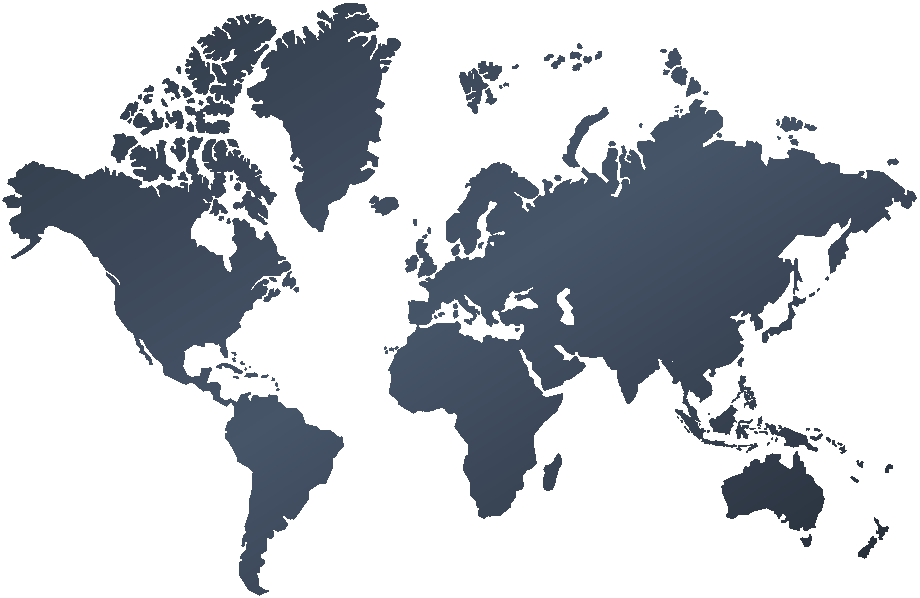
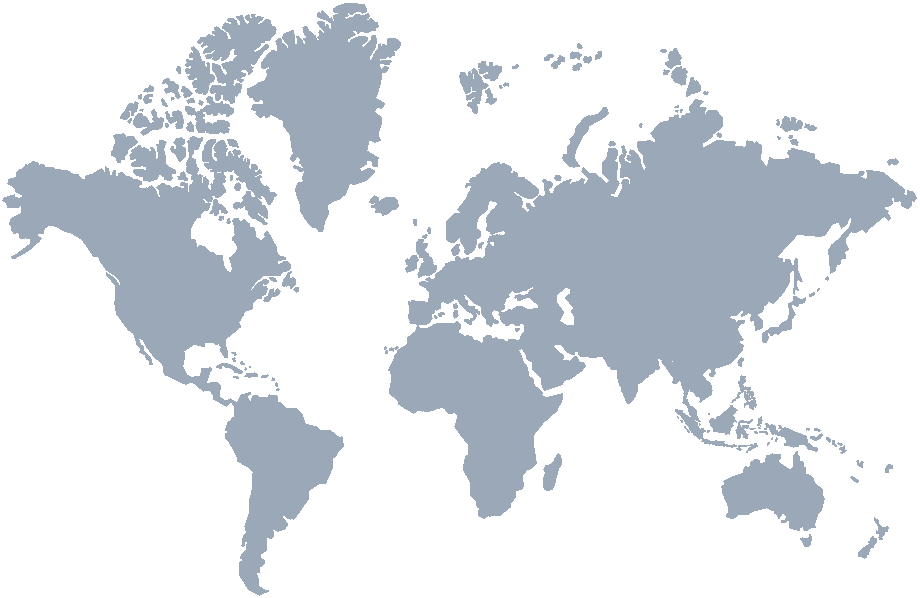
style(map): switch aggressive red world map to elegant neutral slate in light theme and sleek charcoal in dark theme

diff --git a/styles.css b/styles.css
@@ -4179,18 +4179,51 @@ body.dark-theme .why-card-content .why-card-desc {
   height: auto;
   line-height: 0;
 }
-.tech-glow-circle,
+.tech-glow-circle {
+  position: absolute;
+  top: 48%;
+  left: 50%;
+  transform: translate(-50%, -50%);
+  width: 250px;
+  height: 250px;
+  border-radius: 50%;
+  background: radial-gradient(
+    circle,
+    rgba(253, 242, 242, 0.95) 0%,
+    rgba(254, 226, 226, 0.6) 50%,
+    rgba(253, 242, 242, 0) 72%
+  );
+  z-index: 1;
+}
 .tech-radar-ring {
-  display: none !important;
+  position: absolute;
+  top: 48%;
+  left: 50%;
+  transform: translate(-50%, -50%) rotate(0deg);
+  width: 230px;
+  height: 230px;
+  border-radius: 50%;
+  border: 1.5px dashed rgba(215, 28, 27, 0.2);
+  z-index: 2;
+  animation: rotateRadarRing 30s linear infinite;
+}
+@keyframes rotateRadarRing {
+  from {
+    transform: translate(-50%, -50%) rotate(0deg);
+  }
+  to {
+    transform: translate(-50%, -50%) rotate(360deg);
+  }
 }
 .tech-showcase-img {
-  height: 480px;
+  height: 420px;
+  max-width: 310px;
   width: auto;
   object-fit: contain;
   object-position: bottom center;
   position: relative;
   z-index: 2;
-  filter: drop-shadow(0 14px 28px rgba(0, 0, 0, 0.3));
+  filter: drop-shadow(0 14px 28px rgba(25, 32, 35, 0.18));
   flex-shrink: 0;
   display: block;
   vertical-align: bottom;
@@ -8297,7 +8330,7 @@ body.dark-theme .trust-item svg {
     justify-content: center;
   }
   :root {
-    --text-h2: clamp(1.45rem, 1.15rem + 1.6vw, 1.95rem);
+    --text-h2: clamp(1.48rem, 1.15rem + 1.8vw, 2.15rem);
   } /* Hero Section */
   .hero-section {
     gap: 22px;
@@ -8864,7 +8897,7 @@ body.dark-theme .trust-item svg {
     justify-content: center;
   }
   :root {
-    --text-h2: clamp(1.35rem, 1rem + 1.5vw, 1.7rem);
+    --text-h2: clamp(1.35rem, 1.05rem + 1.5vw, 1.75rem);
   }
   .hero-headline {
     font-size: clamp(2rem, 1.125rem + 4vw, 2.45rem);
@@ -9075,12 +9108,12 @@ body.dark-theme .trust-item svg {
   }
 } /* --- Compact Mobile Viewports (360px - iPhone SE, Galaxy A) --- */
 @media (max-width: 360px) {
-  :root {
-    --text-h2: clamp(1.22rem, 5.5vw, 1.45rem);
-  }
   .site-canvas {
     padding: 12px 8px 18px 8px;
     border-radius: 0 !important;
+  }
+  :root {
+    --text-h2: clamp(1.2rem, 0.95rem + 1.2vw, 1.45rem);
   }
   .hero-headline {
     font-size: clamp(1.85rem, 1.125rem + 4vw, 2.15rem);
@@ -9257,7 +9290,7 @@ body.dark-theme .trust-item svg {
     padding: 4px;
   }
   :root {
-    --text-h2: clamp(1.1rem, 5vw, 1.25rem);
+    --text-h2: clamp(1.05rem, 0.9rem + 1vw, 1.25rem);
   }
   .hero-headline {
     font-size: 1.5rem;
@@ -10193,9 +10226,16 @@ body.dark-theme .process-step-item:hover .step-num {
   box-shadow: 0 2px 8px rgba(0, 0, 0, 0.6);
   transform: scale(1.08);
 }
-body.dark-theme .tech-glow-circle,
+body.dark-theme .tech-glow-circle {
+  background: radial-gradient(
+    circle,
+    rgba(215, 28, 27, 0.25) 0%,
+    rgba(224, 42, 36, 0.1) 50%,
+    transparent 72%
+  );
+}
 body.dark-theme .tech-radar-ring {
-  display: none !important;
+  border-color: rgba(224, 42, 36, 0.3);
 }
 body.dark-theme .tech-floating-status {
   background: var(--btn-gradient-primary);
@@ -10845,8 +10885,8 @@ body.dark-theme .status-icon.icon-clock {
   color: #ff5a52;
 }
 body.dark-theme .areas-map-img {
-  content: url("assets/world-map-dark.png");
-  opacity: 0.95;
+  content: url("assets/world-map-dark.png?v=2.0");
+  opacity: 0.92;
   filter: none;
 }
 body.dark-theme .hub-dispatch-pill {
@@ -15763,14 +15803,17 @@ body.dark-theme .hero-flank-card {
   }
   .hero-center-headline {
     font-size: clamp(2.05rem, 1.125rem + 4vw, 2.55rem);
-    line-height: 1.2;
+    line-height: 1.18;
     letter-spacing: -0.02em;
     word-break: break-word;
     overflow-wrap: break-word;
     max-width: 100%;
   }
   .center-hl-line {
-    display: inline;
+    white-space: normal !important;
+    overflow-wrap: break-word;
+    word-break: normal;
+    display: block;
   }
   .hero-center-description {
     font-size: 14px;
@@ -15878,6 +15921,7 @@ body.dark-theme .hero-flank-card {
   }
   .hero-center-headline {
     font-size: clamp(2rem, 1.125rem + 4vw, 2.45rem);
+    line-height: 1.2;
   }
 }
 
@@ -15891,12 +15935,16 @@ body.dark-theme .hero-flank-card {
   }
   .hero-center-headline {
     font-size: clamp(1.85rem, 1.125rem + 4vw, 2.15rem);
+    line-height: 1.2;
   }
 }
 
 @media (max-width: 300px) {
   .hero-center-headline {
     font-size: clamp(1.5rem, 5.5vw, 1.75rem);
+    line-height: 1.2;
+    word-break: break-word;
+    overflow-wrap: break-word;
   }
 } 
 
@@ -21382,7 +21430,7 @@ body.dark-theme .areas-dispatch-live .status-pulse-dot {
     border-radius: 20px;
   }
   .article-hero-split-row .article-post-title {
-    font-size: clamp(1.85rem, 5.5vw, 2.35rem);
+    font-size: clamp(1.4rem, 5.5vw, 1.85rem);
     margin-bottom: 12px;
   }
   .article-hero-split-row .article-post-lead {

diff --git a/service-ac.html b/service-ac.html
@@ -1166,7 +1166,7 @@
           <!-- Right Column: Interactive Dispatch Map Stage -->
           <div class="areas-header-map">
             <div class="areas-map-stage">
-              <img src="assets/world-map-navy.png" alt="Dubai Dispatch Hub World Coverage" class="areas-map-img" loading="lazy">
+              <img src="assets/world-map-slate.png?v=2.0" alt="Dubai Dispatch Hub World Coverage" class="areas-map-img" loading="lazy">
               
               <!-- Animated Curved Trajectory Routes & White Location Pins matching user reference and theme -->
               <svg class="map-routes-svg" viewBox="0 0 920 598" fill="none" xmlns="http://www.w3.org/2000/svg" aria-hidden="true">

diff --git a/service-dishwasher.html b/service-dishwasher.html
@@ -1167,7 +1167,7 @@
           <!-- Right Column: Interactive Dispatch Map Stage -->
           <div class="areas-header-map">
             <div class="areas-map-stage">
-              <img src="assets/world-map-navy.png" alt="Dubai Dispatch Hub World Coverage" class="areas-map-img" loading="lazy">
+              <img src="assets/world-map-slate.png?v=2.0" alt="Dubai Dispatch Hub World Coverage" class="areas-map-img" loading="lazy">
               
               <!-- Animated Curved Trajectory Routes & White Location Pins matching user reference and theme -->
               <svg class="map-routes-svg" viewBox="0 0 920 598" fill="none" xmlns="http://www.w3.org/2000/svg" aria-hidden="true">

diff --git a/service-dryer.html b/service-dryer.html
@@ -1167,7 +1167,7 @@
           <!-- Right Column: Interactive Dispatch Map Stage -->
           <div class="areas-header-map">
             <div class="areas-map-stage">
-              <img src="assets/world-map-navy.png" alt="Dubai Dispatch Hub World Coverage" class="areas-map-img" loading="lazy">
+              <img src="assets/world-map-slate.png?v=2.0" alt="Dubai Dispatch Hub World Coverage" class="areas-map-img" loading="lazy">
               
               <!-- Animated Curved Trajectory Routes & White Location Pins matching user reference and theme -->
               <svg class="map-routes-svg" viewBox="0 0 920 598" fill="none" xmlns="http://www.w3.org/2000/svg" aria-hidden="true">

diff --git a/service-microwave.html b/service-microwave.html
@@ -1167,7 +1167,7 @@
           <!-- Right Column: Interactive Dispatch Map Stage -->
           <div class="areas-header-map">
             <div class="areas-map-stage">
-              <img src="assets/world-map-navy.png" alt="Dubai Dispatch Hub World Coverage" class="areas-map-img" loading="lazy">
+              <img src="assets/world-map-slate.png?v=2.0" alt="Dubai Dispatch Hub World Coverage" class="areas-map-img" loading="lazy">
               
               <!-- Animated Curved Trajectory Routes & White Location Pins matching user reference and theme -->
               <svg class="map-routes-svg" viewBox="0 0 920 598" fill="none" xmlns="http://www.w3.org/2000/svg" aria-hidden="true">

diff --git a/service-oven.html b/service-oven.html
@@ -1167,7 +1167,7 @@
           <!-- Right Column: Interactive Dispatch Map Stage -->
           <div class="areas-header-map">
             <div class="areas-map-stage">
-              <img src="assets/world-map-navy.png" alt="Dubai Dispatch Hub World Coverage" class="areas-map-img" loading="lazy">
+              <img src="assets/world-map-slate.png?v=2.0" alt="Dubai Dispatch Hub World Coverage" class="areas-map-img" loading="lazy">
               
               <!-- Animated Curved Trajectory Routes & White Location Pins matching user reference and theme -->
               <svg class="map-routes-svg" viewBox="0 0 920 598" fill="none" xmlns="http://www.w3.org/2000/svg" aria-hidden="true">

diff --git a/service-refrigerator.html b/service-refrigerator.html
@@ -1256,7 +1256,7 @@
           <!-- Right Column: Interactive Dispatch Map Stage -->
           <div class="areas-header-map">
             <div class="areas-map-stage">
-              <img src="assets/world-map-navy.png" alt="Dubai Dispatch Hub World Coverage" class="areas-map-img" loading="lazy">
+              <img src="assets/world-map-slate.png?v=2.0" alt="Dubai Dispatch Hub World Coverage" class="areas-map-img" loading="lazy">
               
               <!-- Animated Curved Trajectory Routes & White Location Pins matching user reference and theme -->
               <svg class="map-routes-svg" viewBox="0 0 920 598" fill="none" xmlns="http://www.w3.org/2000/svg" aria-hidden="true">

diff --git a/service-stove.html b/service-stove.html
@@ -1167,7 +1167,7 @@
           <!-- Right Column: Interactive Dispatch Map Stage -->
           <div class="areas-header-map">
             <div class="areas-map-stage">
-              <img src="assets/world-map-navy.png" alt="Dubai Dispatch Hub World Coverage" class="areas-map-img" loading="lazy">
+              <img src="assets/world-map-slate.png?v=2.0" alt="Dubai Dispatch Hub World Coverage" class="areas-map-img" loading="lazy">
               
               <!-- Animated Curved Trajectory Routes & White Location Pins matching user reference and theme -->
               <svg class="map-routes-svg" viewBox="0 0 920 598" fill="none" xmlns="http://www.w3.org/2000/svg" aria-hidden="true">

diff --git a/service-washing-machine.html b/service-washing-machine.html
@@ -1210,7 +1210,7 @@
           <!-- Right Column: Interactive Dispatch Map Stage -->
           <div class="areas-header-map">
             <div class="areas-map-stage">
-              <img src="assets/world-map-navy.png" alt="Dubai Dispatch Hub World Coverage" class="areas-map-img" loading="lazy">
+              <img src="assets/world-map-slate.png?v=2.0" alt="Dubai Dispatch Hub World Coverage" class="areas-map-img" loading="lazy">
               
               <!-- Animated Curved Trajectory Routes & White Location Pins matching user reference and theme -->
               <svg class="map-routes-svg" viewBox="0 0 920 598" fill="none" xmlns="http://www.w3.org/2000/svg" aria-hidden="true">

diff --git a/services.html b/services.html
@@ -718,7 +718,7 @@
           <!-- Right Column: Interactive Dispatch Map Stage -->
           <div class="areas-header-map">
             <div class="areas-map-stage">
-              <img src="assets/world-map-navy.png" alt="Dubai Dispatch Hub World Coverage" class="areas-map-img" loading="lazy">
+              <img src="assets/world-map-slate.png?v=2.0" alt="Dubai Dispatch Hub World Coverage" class="areas-map-img" loading="lazy">
               
               <!-- Animated Curved Trajectory Routes & White Location Pins matching user reference and theme -->
               <svg class="map-routes-svg" viewBox="0 0 920 598" fill="none" xmlns="http://www.w3.org/2000/svg" aria-hidden="true">

diff --git a/index.html b/index.html
@@ -1930,7 +1930,7 @@
             <!-- Right Column: Interactive Dispatch Map Stage -->
             <div class="areas-header-map">
               <div class="areas-map-stage">
-                <img src="assets/world-map-navy.png" alt="Dubai Dispatch Hub World Coverage" class="areas-map-img"
+                <img src="assets/world-map-slate.png?v=2.0" alt="Dubai Dispatch Hub World Coverage" class="areas-map-img"
                   loading="lazy">
 
                 <!-- Animated Curved Trajectory Routes & White Location Pins matching user reference and theme -->
